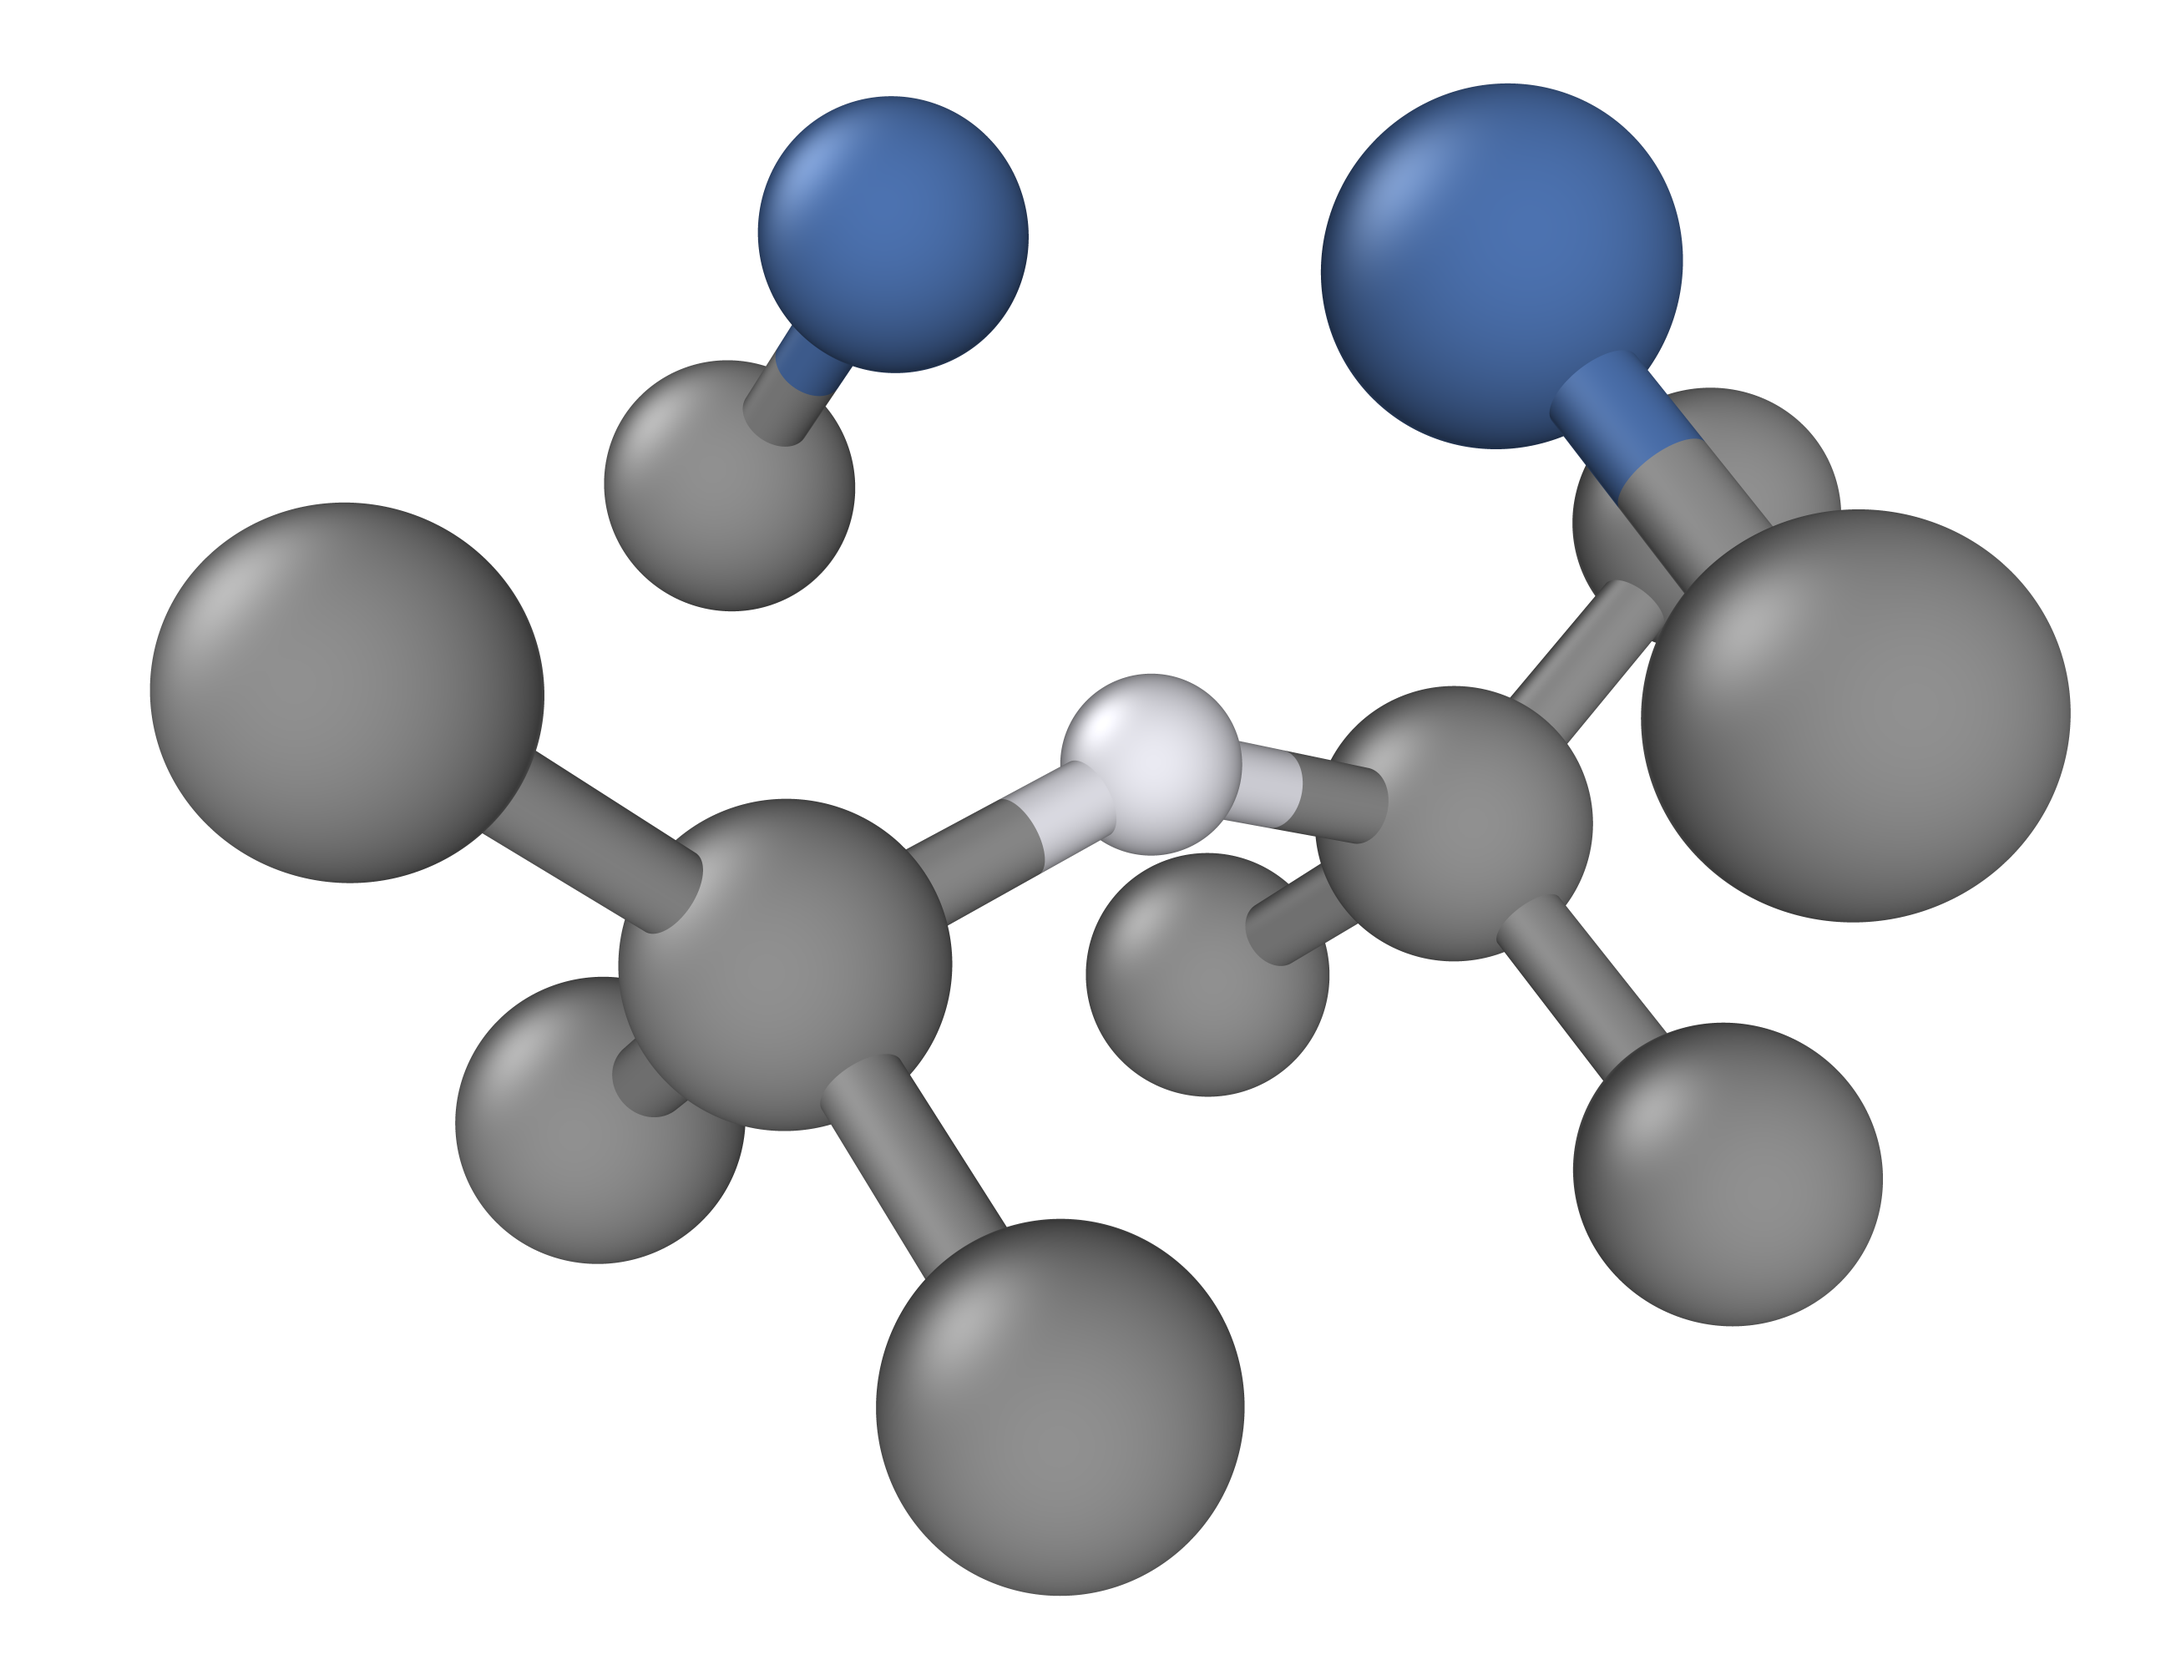
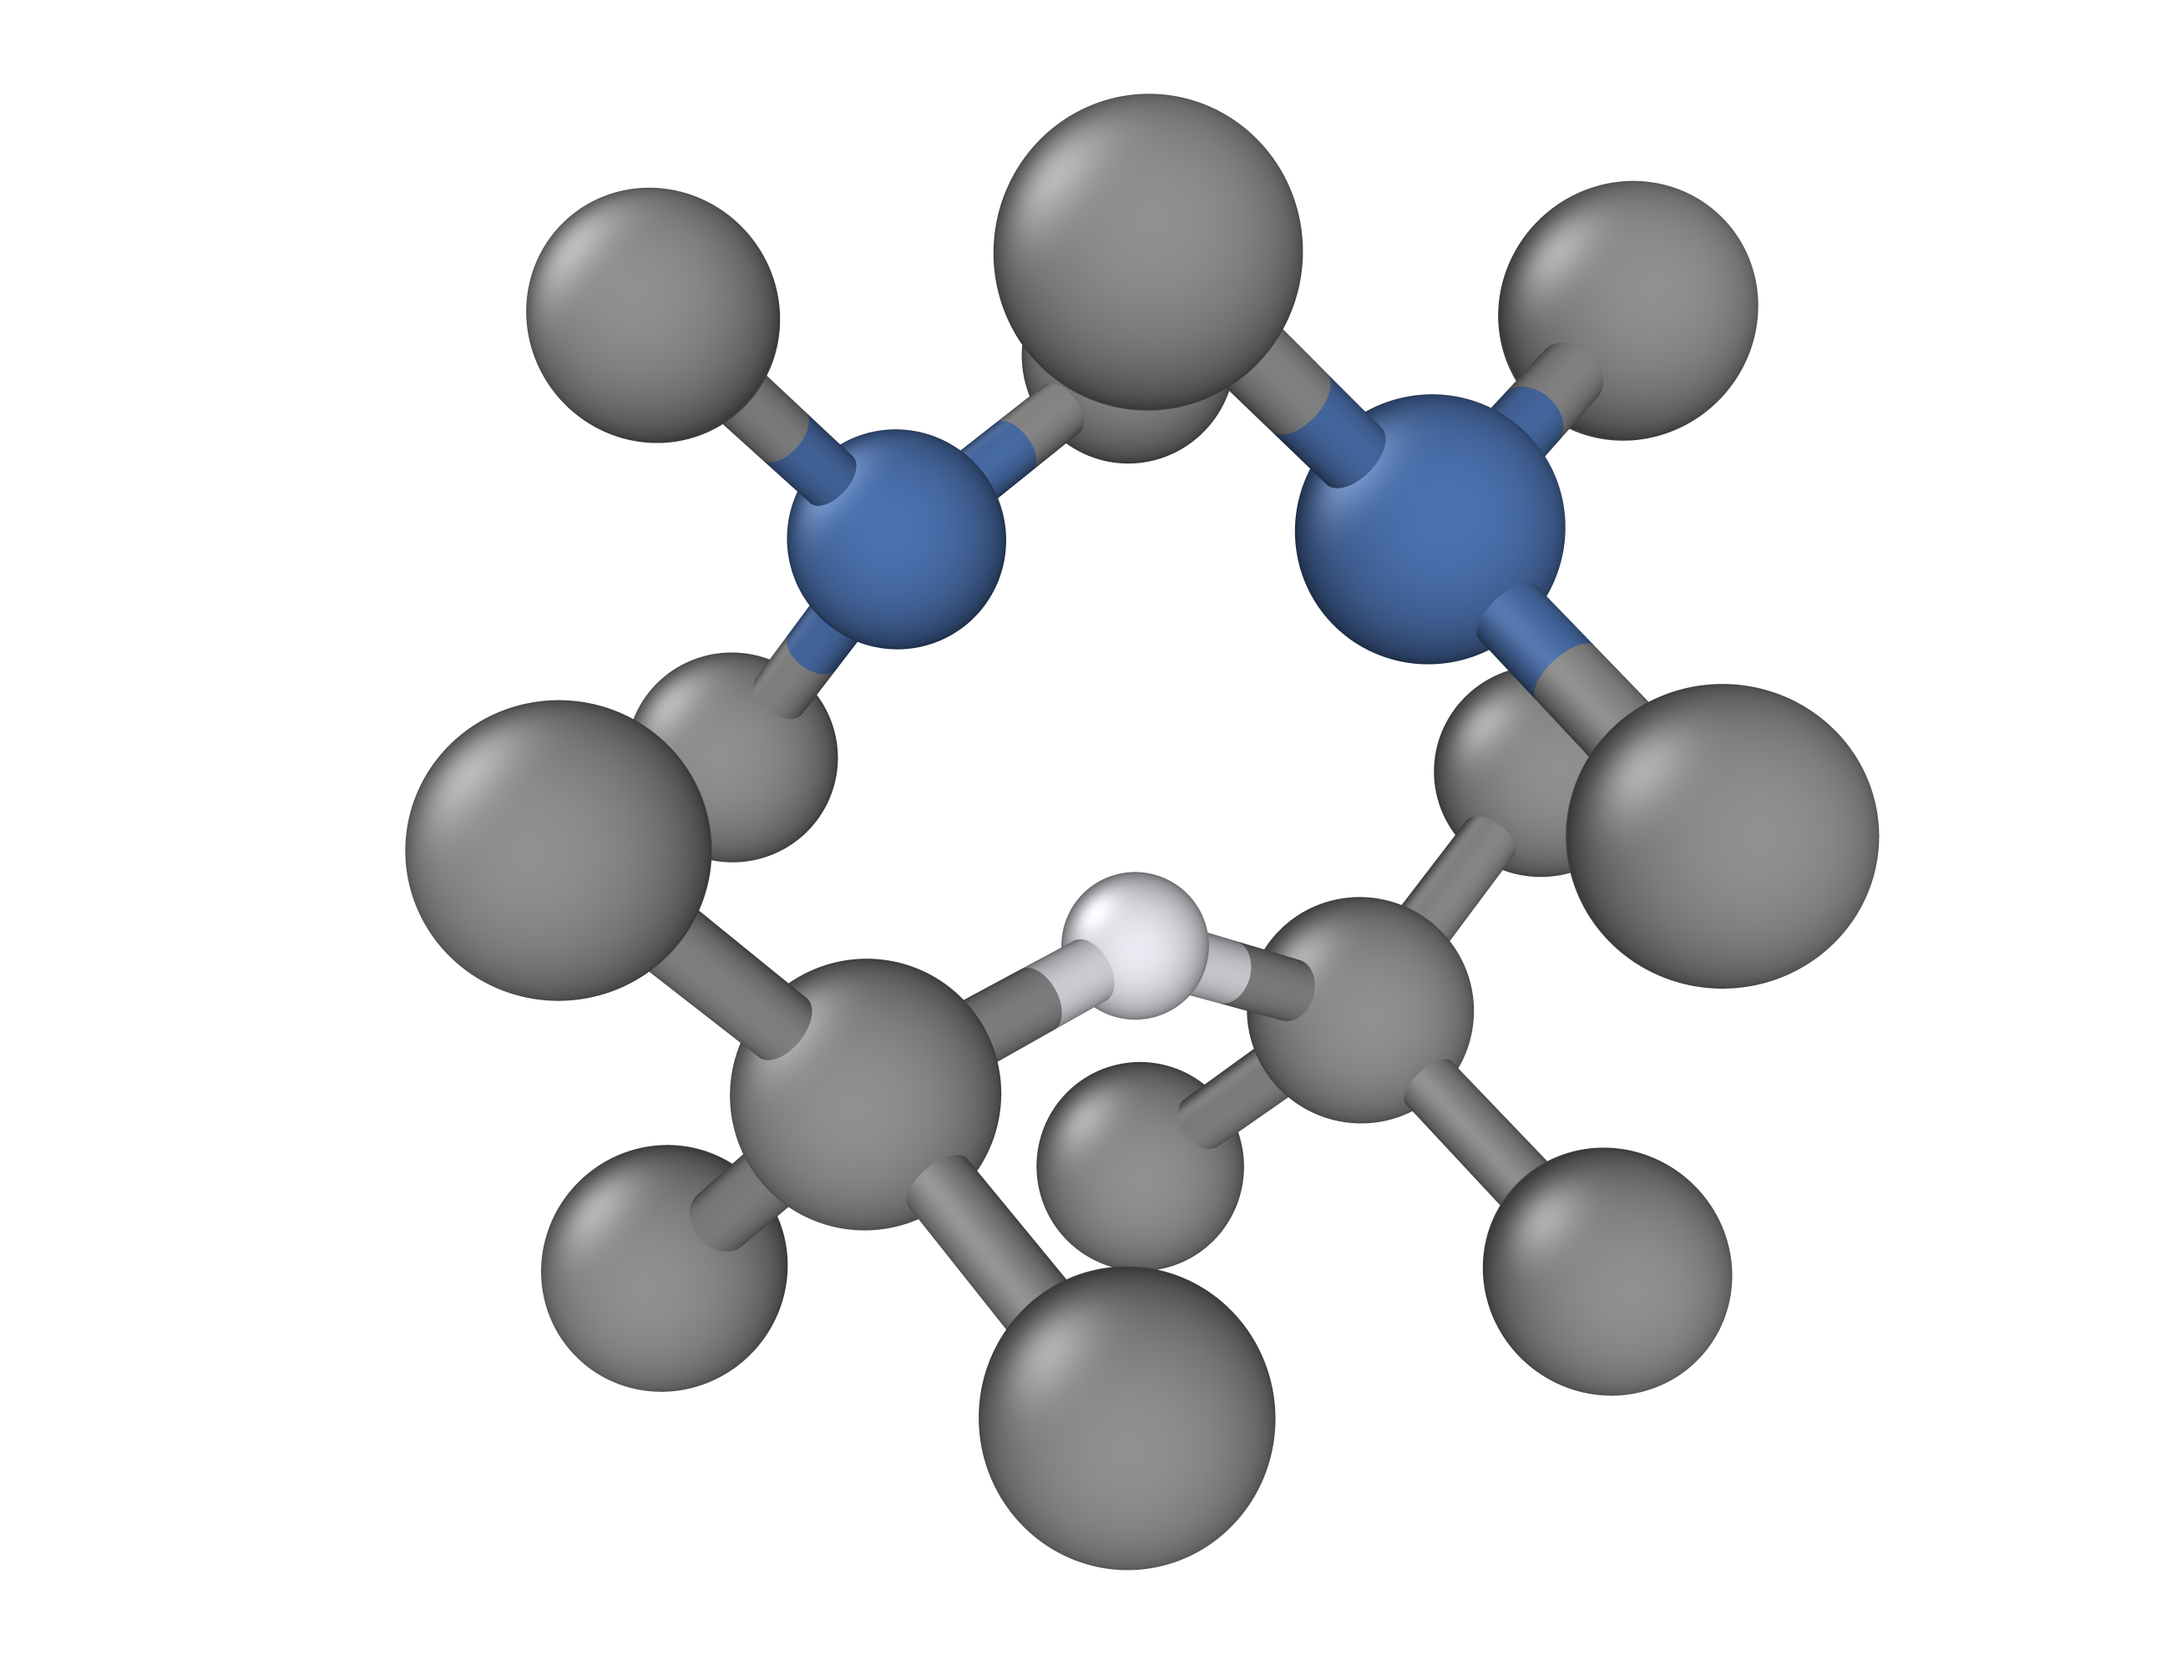
Updates from Overleaf

diff --git a/poster.tex b/poster.tex
@@ -91,7 +91,7 @@
     \begin{figure}
       \centering
         \includegraphics[width=\textwidth]{n2vh_coloured.png}
-      \caption{N$_2$VH in its averaged C$_{2v}$ symmetry position, switching rapidly between the two of them. Hydrogen is shown in white, nitrogen in blue, and carbon in grey, most of the surrounding structure has been omitted for clarity. Generated using OVITO.}
+      \caption{N$_2$VH in its averaged C$_{2v}$ symmetry position, switching rapidly between the two central carbons. Hydrogen is shown in white, nitrogen in blue, and carbon in grey, most of the surrounding structure has been omitted for clarity. Generated using OVITO.}
     \end{figure}
 
 
@@ -147,7 +147,7 @@
 
   \end{block}
 
-  \begin{block}{Fusce aliquam magna velit}
+  \begin{block}{Energy Levels}
 
     Et rutrum ex euismod vel. Pellentesque ultricies, velit in fermentum
     vestibulum, lectus nisi pretium nibh, sit amet aliquam lectus augue vel
@@ -265,9 +265,9 @@
       \centering
       \begin{tabular}{l r r c}
         \toprule
-        \textbf{Defect} & \textbf{Barrier / eV} & \textbf{Literature / eV} & \textbf{Rate / GHz} \\
+        \textbf{Defect} & \textbf{Barrier / eV} & \textbf{Literature / eV} & \textbf{Rate (300K) / GHz} \\
         \midrule
-        Foo & 13.37 & 384,394 & $\alpha$ \\
+        NVH S=$\frac{1}{2}$ & 0.846 & 1.1 & $\alpha$ \\
         Bar & 2.17 & 1,392 & $\beta$ \\
         Baz & 3.14 & 83,742 & $\delta$ \\
         Qux & 7.59 & 974 & $\gamma$ \\
